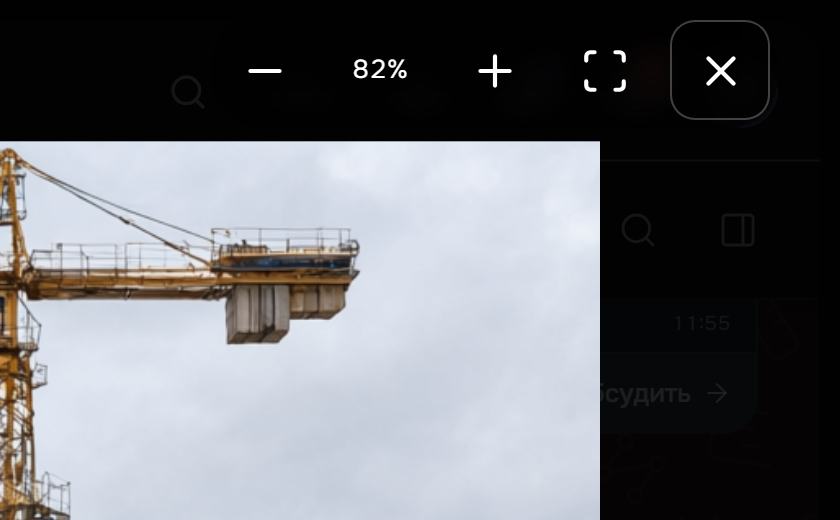
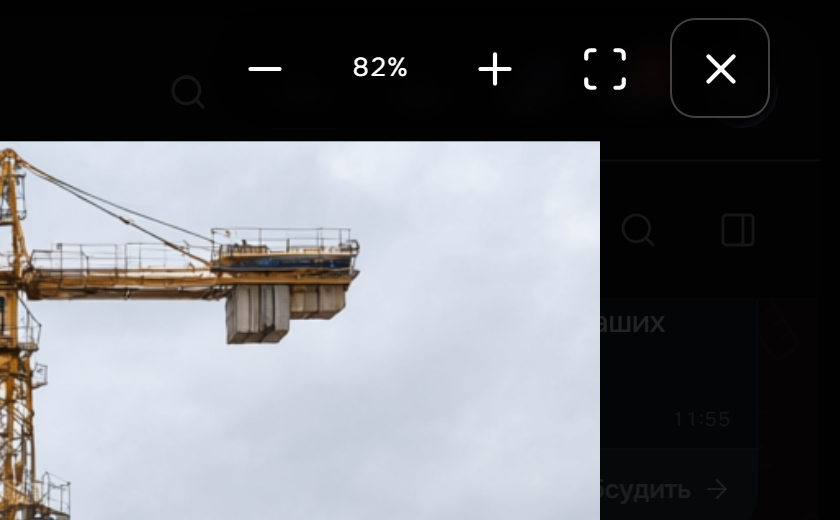
fix(web): хром просмотра закреплён у верхней кромки (#1012)

diff --git a/apps/web/src/shared/chat/image-lightbox.tsx b/apps/web/src/shared/chat/image-lightbox.tsx
@@ -1,5 +1,5 @@
 import { ChevronLeft, ChevronRight, Minus, Plus, Scan, X } from 'lucide-react';
-import { useEffect, useMemo, useRef, useState, type MouseEvent as ReactMouseEvent } from 'react';
+import { useEffect, useRef, useState, type MouseEvent as ReactMouseEvent } from 'react';
 import { createPortal } from 'react-dom';
 import type { MessageAttachment } from '@nodus/contracts';
 import { ui } from '@nodus/contracts';
@@ -25,11 +25,11 @@ import { LightboxFrame } from './lightbox-frame.js';
  *
  * Хром (вердикт владельца 25.11.2026): фон — СПЛОШНОЕ затемнение всего экрана
  * (кадр остаётся ярким), а строка масштаба с крестиком плавает свободной
- * группой в тёмном поле НАД кадром — по центру свободного поля между верхним
- * краем кадра и верхней кромкой экрана. Так значки не стоят впритык к кнопкам
- * окна оболочки (у верхней кромки получались «два крестика») и не накрывают
- * фото; компактные плашки под счётчиком и группой держат контраст, когда
- * увеличенный кадр уходит под хром.
+ * группой в тёмном поле НАД кадром и закреплена у верхней кромки (середина
+ * стандартного поля 15%) — от размера кадра не зависит, у маленькой картинки
+ * не сползает в середину экрана. Так значки не читаются рядом с кнопками окна
+ * оболочки и не накрывают фото; компактные плашки под счётчиком и группой
+ * держат контраст, когда увеличенный кадр уходит под хром.
  */
 
 /** Кнопки масштаба в группе хрома: белые ghost-значки крупнее обычных. */
@@ -64,33 +64,20 @@ export function ImageLightbox({
   // Зум живёт на весь лайтбокс, но сбрасывается сменой кадра (resetKey).
   const zoom = useImageZoom({ fitFactor: FIT_FACTOR, resetKey: image?.id });
 
-  // Свободное поле над кадром (те же 85% окна без апскейла, что у кадра):
-  // строка хрома центрируется в нём, а не прижимается к верхней кромке.
-  const [viewport, setViewport] = useState(() => ({
-    width: typeof window === 'undefined' ? 0 : window.innerWidth,
-    height: typeof window === 'undefined' ? 0 : window.innerHeight,
-  }));
+  // Хром закреплён у верхней кромки — середина стандартного поля 15% (эталон
+  // владельца 25.11.2026): у большого кадра он у верха, как на скриншоте 1,
+  // а у маленького НЕ сползает в середину экрана, как на 2. От размера кадра
+  // позиция не зависит.
+  const [viewportHeight, setViewportHeight] = useState(() =>
+    typeof window === 'undefined' ? 0 : window.innerHeight,
+  );
   useEffect(() => {
-    const measure = () => setViewport({ width: window.innerWidth, height: window.innerHeight });
+    const measure = () => setViewportHeight(window.innerHeight);
     measure();
     window.addEventListener('resize', measure);
     return () => window.removeEventListener('resize', measure);
   }, []);
-  const chromeTop = useMemo(() => {
-    const width = image?.width ?? 0;
-    const height = image?.height ?? 0;
-    if (width > 0 && height > 0 && viewport.height > 0) {
-      const ratio = width / height;
-      const fitWidth = Math.min(
-        FIT_FACTOR * viewport.width,
-        FIT_FACTOR * viewport.height * ratio,
-        width,
-      );
-      return Math.max(0, (viewport.height - fitWidth / ratio) / 2) / 2;
-    }
-    // Кадр без габаритов (старые строки) — потоковый фолбэк: поле 15% экрана.
-    return (viewport.height * 0.075) / 2;
-  }, [image?.width, image?.height, viewport]);
+  const chromeTop = (viewportHeight * 0.075) / 2;
 
   // Отложенное закрытие по заднику (см. BACKDROP_CLOSE_DELAY): второй клик
   // пары или `dblclick` его отменяют — двойной клик только меняет масштаб.
@@ -168,10 +155,10 @@ export function ImageLightbox({
       className="pointer-events-auto fixed inset-0 z-[80] flex items-center justify-center bg-black/85 outline-none"
     >
       {/* Хром — свободная строка в тёмном поле над кадром (вердикт 25.11.2026):
-          фон сплошной, кадр яркий и не накрыт; строка центрируется в свободном
-          поле над кадром — у верхней кромки значки читались рядом с кнопками
-          окна. Компактные плашки держат контраст, когда увеличенный кадр
-          уходит под хром. */}
+          фон сплошной, кадр яркий и не накрыт; строка закреплена у верхней
+          кромки (середина стандартного поля) и от размера кадра не зависит —
+          у маленькой картинки не сползает в середину экрана. Компактные
+          плашки держат контраст, когда увеличенный кадр уходит под хром. */}
       <div
         role="toolbar"
         aria-label={ui.files.zoomPanel}

diff --git a/apps/web/src/shared/chat/image-lightbox-zoom.test.tsx b/apps/web/src/shared/chat/image-lightbox-zoom.test.tsx
@@ -134,8 +134,11 @@ describe('ImageLightbox: масштаб', () => {
     // Полосы-подложки нет: фон — сплошное затемнение, хром плавает строкой.
     expect(toolbar.className).not.toContain('bg-black/60');
     expect(toolbar.className).not.toContain('bg-card');
-    // Строка центрируется в свободном поле над кадром, а не льнёт к кромке.
-    expect(Number.parseFloat(toolbar.style.top)).toBeGreaterThan(0);
+    // Строка закреплена у верхней кромки (середина стандартного поля) — от
+    // размера кадра не зависит; у маленькой картинки не сползает в середину.
+    const top = Number.parseFloat(toolbar.style.top);
+    expect(top).toBeGreaterThan(0);
+    expect(top).toBeLessThan(60);
     // Крестик — последним в правой группе (не отдельной кнопкой в углу окна):
     // наша скруглённая плашка, не круг; фон на весь экран.
     const close = screen.getByRole('button', { name: ui.common.close });

diff --git a/docs/gotchas/frontend.md b/docs/gotchas/frontend.md
@@ -171,7 +171,7 @@
 - **Прозрачная ghost-панель поверх фотографии «исчезает» — z-index и hit-test тут НЕ виноваты, ловушка в контрасте** (#721, лайтбокс чата, живая проверка владельца 11.11.2026): полоса масштаба (текст `white/70`, ghost-кнопки без фона) при увеличении кадра оказывалась НАД светлым фото и визуально пропадала — приёмка читалась как «картинка накрыла панель, кнопки недоступны», хотя `elementFromPoint` вверху экрана возвращал панель, а не кадр (проверено headless-репро структуры слоёв: positioned z-auto кадр рисуется в шаге 8, positive z-index хрома — в шаге 9, CSS 2.1 Appendix E). Лечение: СПЛОШНАЯ подложка + явные слои (хром `z-20`, кадр `z-0`, разные ветки дерева — overflow кадра его не режет). Градиентный скрим первой итерации (`bg-linear-to-b from-black/70`) не читался на светлом скриншоте интерфейса (вторая живая проверка 11.11) — канон «плоско, без градиентов» (nodus-ui-style п. 3) и здесь прав: полоса получила `bg-black/60` + `backdrop-blur-sm`, текст `white`/`white/90`, hover `bg-white/15`; финальный хром (25.11.2026) — сплошное затемнение всего экрана, а строка масштаба с крестиком плавает свободной группой в тёмном поле над кадром (у верхней кромки значки читались рядом с кнопками окна); у файлового просмотрщика подложка панели — своя (`bg-card` у примитива `ViewerZoomBar`), чтобы читаемость не зависела от контента под ней. Мораль: оверлей поверх произвольного контента обязан иметь собственную непрозрачную подложку и контраст текста, а проверку «панель перекрыта» начинать с контраста/фона, а не с z-index.
 - **`setPointerCapture` на контейнере переадресует `click` ЕМУ, а не картинке — `stopPropagation` в `onClick` ребёнка не срабатывает** (#721, лайтбокс чата, живая проверка 11.11.2026): область просмотра захватывает указатель на `pointerdown` (нужно для панорамирования), после чего браузер диспатчит `click` в захвативший элемент — обработчик `<img onClick={e => e.stopPropagation()}>` никогда не вызывался, клик по фото всплывал до диалога и закрывал лайтбокс; двойной клик (два клика подряд) выбрасывал из просмотра вместо переключения масштаба. Проверено живьём в Chromium: `pointerdown` на `img` при capture у контейнера → `click.target` = контейнер. Канон: «нажатие по фото» распознавать на `pointerdown` (`event.target.closest('img')`) и гасить клик в обработчике контейнера; закрытие по заднику откладывать на паузу двойного клика (первый клик пары приходит раньше `dblclick`).
 - **Нативный drag изображения убивает pointer-жест: `<img>` без `draggable={false}` запускает drag-and-drop, и браузер обрывает последовательность** (#721, лайтбокс чата: «картинка не двигается при 125%», живая проверка 11.11.2026): живой замер в Chromium — при протяжке по `<img>` с драг-атрибутом по умолчанию приходит `dragstart`, всего 2 `pointermove`, затем `pointercancel` (картинка дёргается на ~12 px и встаёт); с `draggable="false"` — 9 `pointermove` и полный сдвиг. Канон: любую поверхность с pointer-панорамой помечать `draggable={false}` на картинках + `onDragStart={e => e.preventDefault()}` на контейнере (jsdom этого не ловит — нужен живой прогон).
-- **Полноэкранный просмотр в оболочке: хром у САМОГО верхнего края читается рядом с кнопками окна — два крестика друг под другом** (замечания владельца 24–25.11.2026, просмотр картинки/видео из чата): окно Tauri нативное (`create_main_window` без `decorations`), веб-содержимое начинается ПОД полосой заголовка Windows. Канон: фон просмотра — сплошное затемнение ВСЕГО экрана (верхняя панель приложения тоже, никакой светлой полосы), кадр яркий и не накрыт; строка масштаба с крестиком — свободная группа в тёмном поле НАД кадром, по центру свободного поля между верхним краем кадра и верхней кромкой экрана (не у кромки), кнопки крупнее обычных, компактные плашки под счётчиком и группой держат контраст, когда увеличенный кадр уходит под хром; крестик — последним в правой группе, наша скруглённая плашка (10px, НЕ круг). Подтверждено снимками владельца (24.11 — два крестика рядом; 25.11 — «яркая картинка, весь фон затемнён, значки ниже») и кодом окна; регресс — `image-lightbox-zoom.test.tsx`, `video-player-view.test.tsx`.
+- **Полноэкранный просмотр в оболочке: хром у САМОГО верхнего края читается рядом с кнопками окна — два крестика друг под другом** (замечания владельца 24–25.11.2026, просмотр картинки/видео из чата): окно Tauri нативное (`create_main_window` без `decorations`), веб-содержимое начинается ПОД полосой заголовка Windows. Канон: фон просмотра — сплошное затемнение ВСЕГО экрана (верхняя панель приложения тоже, никакой светлой полосы), кадр яркий и не накрыт; строка масштаба с крестиком — свободная группа в тёмном поле НАД кадром, закреплённая у верхней кромки (середина стандартного поля 15%), от размера кадра не зависит — у маленькой картинки не сползает в середину экрана (эталон владельца: как скриншот 1, а не 2), кнопки крупнее обычных, компактные плашки под счётчиком и группой держат контраст, когда увеличенный кадр уходит под хром; крестик — последним в правой группе, наша скруглённая плашка (10px, НЕ круг). Подтверждено снимками владельца (24.11 — два крестика рядом; 25.11 — «яркая картинка, весь фон затемнён, значки ниже») и кодом окна; регресс — `image-lightbox-zoom.test.tsx`, `video-player-view.test.tsx`.
 - **dnd-kit: живой индекс вставки «над/под/между» — только `onDragMove` + пересчёт на КАЖДОМ движении; `onDragOver` в прежнем движке канбана считал индекс при входе в колонку (ранний return при `activeStage === overStage`) и по верху ПЕРЕТАСКИВАЕМОЙ карточки, а не по указателю — фантом вставал не с той стороны и «залипал», а в колонке из 1–2 карточек «между» было недостижимо (#737, репро владельца 10.11). Пересортировка массива ВО ВРЕМЯ drag — поддерживаемый путь: `SortableContext` видит `itemsHaveChanged` и на этот кадр снимает трансформы + перемеряет droppable-контейнеры (исходник @dnd-kit/sortable 10: `disableTransforms`, `measureDroppableContainers(items)`); анти-осциллятор после межколоночного переноса обязателен и НЕ должен гасить внутриколоночные кадры. Drop не пересчитывает индекс заново — иначе фактический порядок расходится с показанным слотом. Подтверждено чтением исходников sortable 10.0.0 + регресс-тестами `kanban-drop-index.test.ts` / `use-kanban-board.test.tsx`.
 - **dnd-kit: `verticalListSortingStrategy` НЕСОВМЕСТИМА с живой перестановкой массива — разворачивает сторону вставки, и «фикс» индекса не помогает** (#737, второй заход 13.11.2026 — владелец на проде: «карточку нельзя разделить двумя, нельзя в самый верх»). Стратегия считает трансформ не от фактической позиции карточки, а от ТЕКУЩИХ индексов (`activeIndex`/`overIndex` в уже переставленном массиве) и всегда двигает активную карточку к `over`: при состоянии «вставка после B» (`activeIndex = overIndex + 1`) она ставит активную ВЫШЕ B и сдвигает B вниз (проверено вызовом `verticalListSortingStrategy` из @dnd-kit/sortable 10.0.0: `activeIndex=1/overIndex=0` и `activeIndex=0/overIndex=1` дают ОДИНАКОВЫЕ трансформы `item0 +высота, item1 −высота`). Пользователь видит слот на противоположной стороне: «между двумя» не читается, верх визуально недостижим, drop расходится с фантомом; расчёт индекса (19 unit-тестов) при этом верен. Канон: при живом порядке стратегия — нейтральная (`shared/lib/board/board-sorting.ts`, `liveBoardSortingStrategy = () => null`): соседи разъезжаются сменой DOM-порядка, `SortableContext` остаётся только ради контекста `useSortable`/клавиатуры. Менять на штатную стратегию нельзя, пока борд переставляется в `onDragMove`; страж — `board-sorting.test.ts` (инвариант «ни одной позиции трансформа»). Подтверждено: исходник sortable 10.0.0 + живая проба Playwright на :4173 (внутри колонки «между/верх», межколоночно «верх/между», drop = слот, серверный порядок совпал).
 - **dnd-kit: FLIP-анимацию движения нельзя мерить по `getBoundingClientRect` — бегущая анимация попадает в замер и раскачивает сама себя** (#737, репро владельца 13.11.2026: «призрак дико вибрирует при DnD»). Плавность давала `verticalListSortingStrategy`; после её выключения (она разворачивала сторону вставки) движение возвращается FLIP'ом в `shared/lib/board/board-flip.ts` + `board-sortable-card.tsx`: позиция до/после коммита → WAAPI `translate(старая − новая) → 0` (200 мс, `cubic-bezier(0.25,1,0.5,1)`, как у dnd-kit). Ключевой механизм: позиция берётся из `offsetTop`/`offsetLeft` — это геометрия РАСКЛАДКИ, CSS-трансформы её не меняют (CSSOM). Замер по `getBoundingClientRect` включает текущий transform: dnd-kit перерисовывает карточки на КАЖДОЕ движение указателя, «позиция до» каждый кадр съезжала на прогресс анимации, FLIP перезапускал сам себя — вибрация призрака. Layout-позиция стабильна, пока реально не изменился порядок; лишние перезапуски исключены. Вторая деталь: `setNodeRef` dnd-kit мёржится стабильным `useCallback` (пере-монтирование ref на каждом рендере стирает «позицию до»), а стартовый кадр при пере-целивании — от текущего computed-transform, чтобы движение не «щёлкало». FLIP не участвует в выборе места: слоты «верх/между/низ» и drop остаются прежними. Подтверждено живой пробой: `Element.animate` получает `translate(0, 105–254px)`, к 320 мс все трансформы нулевые, после остановки указателя новых анимаций нет (0 перезапусков за 500 мс).

diff --git a/apps/web/src/features/chat/README.md b/apps/web/src/features/chat/README.md
@@ -498,9 +498,9 @@ PATCH hidden:false → инвалидация списка ДО перехода
 (`image-lightbox.tsx`): портал поверх интерфейса, Esc/задник — закрыть,
 стрелки — листание (панораме, когда картинка увеличена и фокус в области
 просмотра, #721), счётчик «N / M», панель зума 25–400% — свободная строка в
-тёмном поле над кадром (по центру свободного поля; 25.11.2026: фон — сплошное
-затемнение всего экрана, кадр яркий, а значки с крестиком не у верхней кромки,
-где читались рядом с кнопками окна), фокус возвращается плитке; клик по плитке
+тёмном поле над кадром, закреплённая у верхней кромки (середина стандартного
+поля, от размера кадра не зависит; 25.11.2026: фон — сплошное затемнение всего
+экрана, кадр яркий), фокус возвращается плитке; клик по плитке
 галереи больше не заглушка. Вспышка контура шелла ЗАПРЕЩЕНА на сворачивание/
 разворачивание панелей (флаг width-transition в `circuit-frame.tsx`: на
 переходной геометрии пульс улетал поверх рейки — вердикт владельца).
